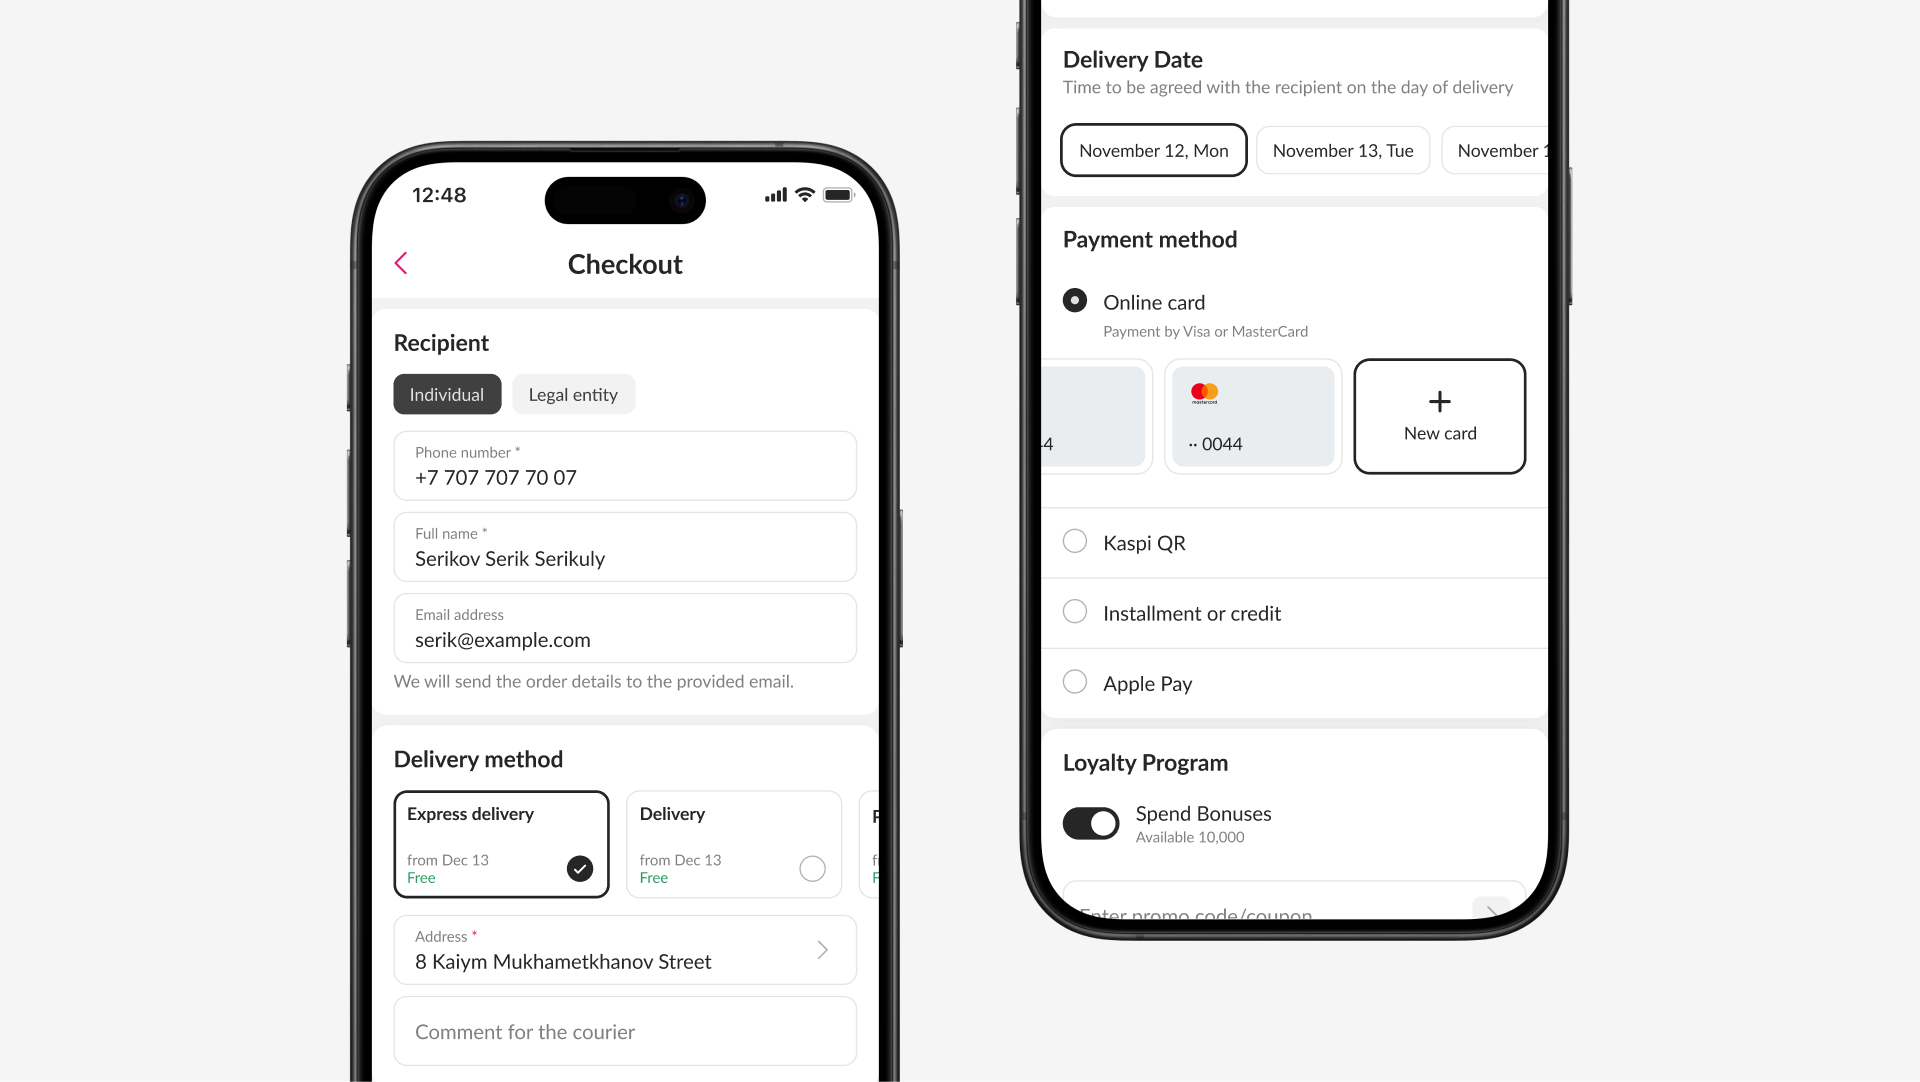
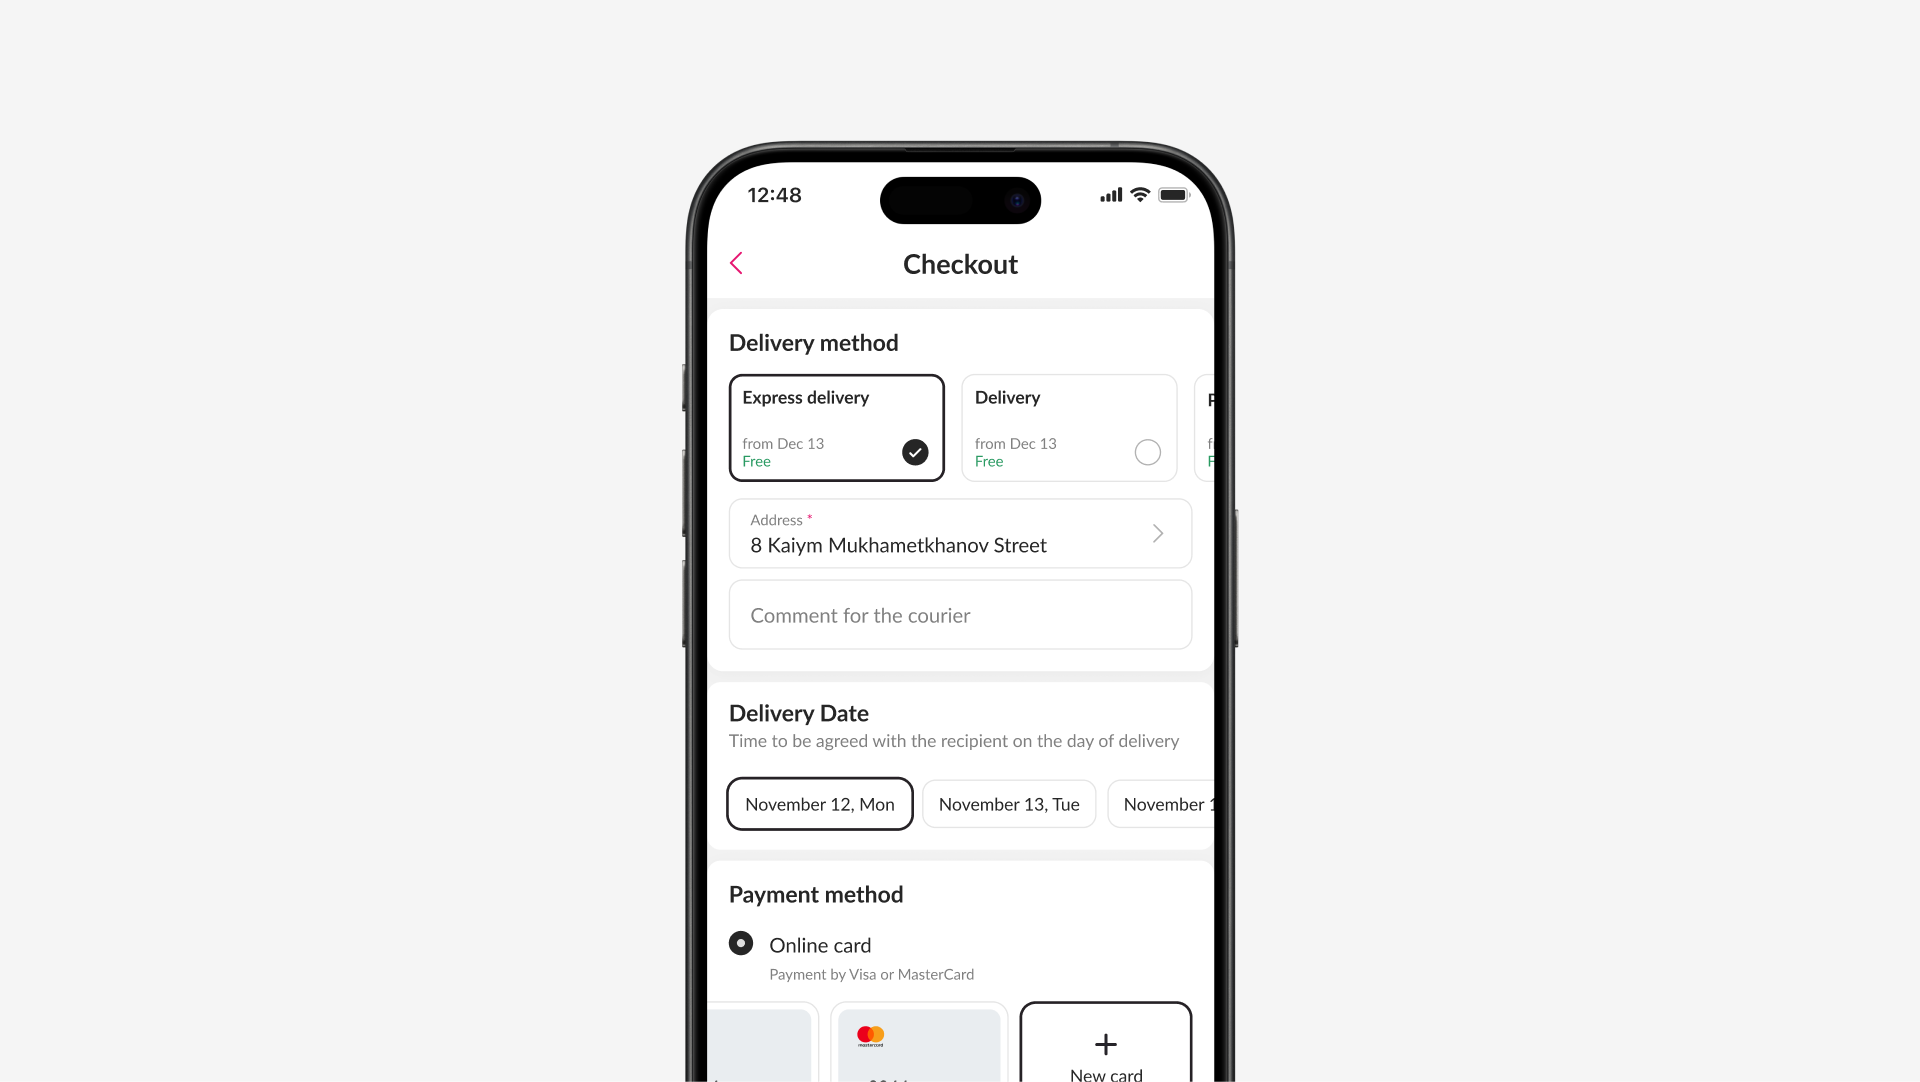
Update portfolio case studies and styling

Changed region(s): [[0.1562, 0.0, 0.8438, 1.0], [0.5625, 0.976, 0.5938, 1.0], [0.5312, 0.915, 0.5625, 0.9455]]

diff --git a/src/content/cases.js b/src/content/cases.js
@@ -4,7 +4,6 @@ import ecommerceCartCover from "../assets/projects/ecommerce-cart-cover.png";
 import ecommerceProductPageCover from "../assets/projects/ecommerce-product-page-cover.png";
 import ecommerceOrdersCover from "../assets/projects/ecommerce-orders-cover.png";
 import ecommerceOrderDetailsCover from "../assets/projects/ecommerce-order-details-cover.png";
-import ecommerceWarrantyServicesCover from "../assets/projects/ecommerce-warranty-services-cover.png";
 import partnersCover from "../assets/projects/partners-cover.png";
 import partnersDrawer from "../assets/projects/partners-drawer.png";
 import productPageBeforeMockup from "../assets/Страница товара до мокап.png";
@@ -21,7 +20,6 @@ export const caseOrder = [
   { slug: "/projects/ecommerce-cart", label: "Корзина" },
   { slug: "/projects/ecommerce-checkout", label: "Оформление заказа" },
   { slug: "/projects/ecommerce-my-orders", label: "Мои заказы" },
-  { slug: "/projects/ecommerce-warranty-services", label: "Гарантийные услуги" },
   { slug: "/projects/ecommerce-order-details", label: "Детали заказа" },
   { slug: "/projects/partners", label: "Mechta Partners" },
   { slug: "/projects/corporate-portal", label: "Корпоративный портал" },
@@ -37,7 +35,7 @@ export const workflowCases = {
         title: "Что это за слой",
         paragraphs: [
           "Это внутренний слой кейса, где я фиксирую не только итоговые экраны, но и саму логику работы: как собирались модули воронки, как мы договаривались с командами и почему часть решений менялась по ходу проекта.",
-          "Здесь важен не один экран, а связанный цикл работы вокруг страницы товара, корзины, оформления заказа, этапа после покупки, отслеживания заказа и гарантийных услуг.",
+          "Здесь важен не один экран, а связанный цикл работы вокруг страницы товара, корзины, оформления заказа, этапа после покупки и отслеживания заказа.",
         ],
       },
       {
@@ -116,18 +114,6 @@ export const workflowCases = {
           "собирал единый поток после покупки, а не набор разрозненных экранов",
           "искал конфликты между сценариями, статусами и данными разных команд",
           "закладывал фундамент для будущих изменений воронки через этап после покупки",
-        ],
-      },
-      {
-        title: "Гарантийные услуги",
-        paragraphs: [
-          "Гарантийные услуги были встроенным мини-продуктом внутри интернет-магазина. Здесь нужно было не просто показать тарифы, а связать их с товарами, сопутствующими сценариями и логикой апселла.",
-        ],
-        list: [
-          "пересобрал формат показа гарантий и карточек тарифов",
-          "продумал сопутствующие товары для услуг",
-          "упростил структуру описания, чтобы снизить хардкод",
-          "разобрал кейсы с несколькими одинаковыми товарами и пакетным добавлением",
         ],
       },
       {
@@ -288,28 +274,6 @@ export const workflowCases = {
           "проверял, как пользователь двигается между списком и деталями",
         ],
         media: "Модуль: мои заказы",
-      },
-    ],
-  },
-  ecommerceWarrantyServices: {
-    slug: "/projects/ecommerce-warranty-services",
-    title: "Гарантийные услуги",
-    heroImage: ecommerceWarrantyServicesCover,
-    moduleCase: true,
-    summary: [
-      "Гарантийные услуги были встроенным мини-проектом внутри интернет-магазина и отдельным слоем апселла.",
-    ],
-    metrics: ["Апселл услуг +NDA%"],
-    results: [moduleMetricsPlaceholder],
-    sections: [
-      {
-        title: "Детали",
-        list: [
-          "переосмыслил формат показа гарантий и карточек тарифов",
-          "проработал сопутствующие товары для услуг",
-          "упростил структуру описания, чтобы уменьшить хардкод",
-          "разобрал нестандартные сценарии, включая услуги на несколько одинаковых товаров",
-        ],
       },
     ],
   },
@@ -733,21 +697,6 @@ export const mechtaProjects = [
     preview: false,
   },
   {
-    slug: "/projects/ecommerce-warranty-services",
-    title: "Гарантийные услуги",
-    kind: "E-commerce модуль",
-    period: "2025 — X",
-    summary: [
-      "Гарантийные услуги были встроенным мини-проектом внутри интернет-магазина и отдельным слоем апселла.",
-    ],
-    highlights: [moduleMetricsPlaceholder],
-    metrics: ["Апселл услуг +NDA%"],
-    cover: ecommerceWarrantyServicesCover,
-    moduleCase: true,
-    showSummary: true,
-    preview: false,
-  },
-  {
     slug: "/projects/ecommerce-order-details",
     title: "Детали заказа",
     kind: "E-commerce модуль",
@@ -878,7 +827,6 @@ export const backlogSections = [
       "оформление заказа",
       "этап после покупки",
       "мои заказы",
-      "гарантийные услуги как встроенный мини-проект",
       "скриншоты и дополнительные материалы будут добавлены позже",
     ],
   },
@@ -998,16 +946,6 @@ export const publicCases = {
           "проверял, как пользователь двигается между списком и деталями",
         ],
         media: "Модуль: мои заказы",
-      },
-      {
-        title: "Гарантийные услуги",
-        paragraphs: ["Гарантийные услуги были встроенным мини-проектом внутри интернет-магазина и отдельным слоем апселла."],
-        list: [
-          "переосмыслил формат показа гарантий и карточек тарифов",
-          "проработал сопутствующие товары для услуг",
-          "упростил структуру описания, чтобы уменьшить хардкод",
-          "разобрал нестандартные сценарии, включая услуги на несколько одинаковых товаров",
-        ],
       },
       {
         title: "Итог",

diff --git a/src/content/cases-en.js b/src/content/cases-en.js
@@ -4,7 +4,6 @@ import ecommerceCartCover from "../assets/projects/ecommerce-cart-cover.png";
 import ecommerceProductPageCover from "../assets/projects/ecommerce-product-page-cover.png";
 import ecommerceOrdersCover from "../assets/projects/ecommerce-orders-cover.png";
 import ecommerceOrderDetailsCover from "../assets/projects/ecommerce-order-details-cover.png";
-import ecommerceWarrantyServicesCover from "../assets/projects/ecommerce-warranty-services-cover.png";
 import partnersCover from "../assets/projects/partners-cover.png";
 import partnersDrawer from "../assets/projects/partners-drawer.png";
 import productPageBeforeMockup from "../assets/Страница товара до мокап.png";
@@ -22,7 +21,6 @@ export const caseOrder = [
   { slug: "/projects/ecommerce-cart", label: "Cart" },
   { slug: "/projects/ecommerce-checkout", label: "Checkout" },
   { slug: "/projects/ecommerce-my-orders", label: "My orders" },
-  { slug: "/projects/ecommerce-warranty-services", label: "Warranty services" },
   { slug: "/projects/ecommerce-order-details", label: "Order details" },
   { slug: "/projects/partners", label: "Mechta Partners" },
   { slug: "/projects/corporate-portal", label: "Corporate portal" },
@@ -94,21 +92,6 @@ export const mechtaProjects = [
     highlights: [moduleMetricsPlaceholder],
     metrics: ["Order-status tickets -NDA%"],
     cover: ecommerceOrdersCover,
-    moduleCase: true,
-    showSummary: true,
-    preview: false,
-  },
-  {
-    slug: "/projects/ecommerce-warranty-services",
-    title: "Warranty services",
-    kind: "E-commerce module",
-    period: "2025 — X",
-    summary: [
-      "Packaged warranty services as a clear upsell mini-product inside the store.",
-    ],
-    highlights: [moduleMetricsPlaceholder],
-    metrics: ["Service attach rate +NDA%"],
-    cover: ecommerceWarrantyServicesCover,
     moduleCase: true,
     showSummary: true,
     preview: false,
@@ -348,16 +331,6 @@ export const publicCases = {
         media: "Module: my orders",
       },
       {
-        title: "Warranty services",
-        paragraphs: ["Warranty services worked as a built-in mini-product inside the store and as a separate upsell layer."],
-        list: [
-          "rethought the way warranties and plan cards are presented",
-          "designed relevant cross-sells around the service",
-          "simplified the content structure to reduce hardcoded layout logic",
-          "worked through edge cases, including services attached to several identical items",
-        ],
-      },
-      {
         title: "Summary",
         paragraphs: [
           "For me this was not a one-off redesign but a long-term improvement of a product flow. The outcome was not only better-looking screens, but a more connected funnel with clearer behavior and better scalability.",
@@ -482,28 +455,6 @@ export const publicCases = {
           "checked how users move between the list and the details page",
         ],
         media: "Module: my orders",
-      },
-    ],
-  },
-  ecommerceWarrantyServices: {
-    slug: "/projects/ecommerce-warranty-services",
-    title: "Warranty services",
-    heroImage: ecommerceWarrantyServicesCover,
-    moduleCase: true,
-    summary: [
-      "Warranty services worked as a built-in mini-product inside the store and as a separate upsell layer.",
-    ],
-    metrics: ["Service attach rate +NDA%"],
-    results: [moduleMetricsPlaceholder],
-    sections: [
-      {
-        title: "Details",
-        list: [
-          "rethought the way warranties and plan cards are presented",
-          "designed relevant cross-sells around the service",
-          "simplified the content structure to reduce hardcoded layout logic",
-          "worked through edge cases, including services attached to several identical items",
-        ],
       },
     ],
   },

diff --git a/src/styles.css b/src/styles.css
@@ -168,21 +168,21 @@ body {
 
 
 
-  h2,
-  h3,
-  h4,
-  h5,
-  h6,
-  p,
-  a,
-  button,
-  input,
-  textarea,
-  select,
-  label,
-  li,
-  span,
-  div) {
+h2,
+h3,
+h4,
+h5,
+h6,
+p,
+a,
+button,
+input,
+textarea,
+select,
+label,
+li,
+span,
+div) {
   font-family: var(--font-family-mono) !important;
   font-weight: 400 !important;
   font-size: var(--mi-font-size-code-body) !important;
@@ -190,21 +190,21 @@ body {
   letter-spacing: var(--font-letter-spacing-mono) !important;
 }
 
-  h2,
-  h3,
-  h4,
-  h5,
-  h6,
-  p,
-  a,
-  button,
-  input,
-  textarea,
-  select,
-  label,
-  li,
-  span,
-  div) {
+h2,
+h3,
+h4,
+h5,
+h6,
+p,
+a,
+button,
+input,
+textarea,
+select,
+label,
+li,
+span,
+div) {
   font-family: "Inter", sans-serif !important;
 }
 
@@ -222,46 +222,46 @@ body {
 
 
 
-  .home-page .company-divider,
-  .home-page .project-card,
-  .home-page .about-block .section-title,
-  .home-page .about-block .prose > p,
-  .home-page .special-projects,
-  .page .display-title,
-  .page .cv-subtitle,
-  .page .section-title,
-  .page .fact-row,
-  .page .prose > p,
-  .page .prose > ul,
-  .page .prose > ol,
-  .page .section-inline-title,
-  .page .section-inline-label,
-  .page .case-subsection__title,
-  .page .line-list > li,
-  .page .project-nav,
-  .page .cv-entry__meta) {
+.home-page .company-divider,
+.home-page .project-card,
+.home-page .about-block .section-title,
+.home-page .about-block .prose>p,
+.home-page .special-projects,
+.page .display-title,
+.page .cv-subtitle,
+.page .section-title,
+.page .fact-row,
+.page .prose>p,
+.page .prose>ul,
+.page .prose>ol,
+.page .section-inline-title,
+.page .section-inline-label,
+.page .case-subsection__title,
+.page .line-list>li,
+.page .project-nav,
+.page .cv-entry__meta) {
   position: relative;
   counter-increment: ide-line;
 }
 
-  .home-page .company-divider,
-  .home-page .project-card,
-  .home-page .about-block .section-title,
-  .home-page .about-block .prose > p,
-  .home-page .special-projects,
-  .page .display-title,
-  .page .cv-subtitle,
-  .page .section-title,
-  .page .fact-row,
-  .page .prose > p,
-  .page .prose > ul,
-  .page .prose > ol,
-  .page .section-inline-title,
-  .page .section-inline-label,
-  .page .case-subsection__title,
-  .page .line-list > li,
-  .page .project-nav,
-  .page .cv-entry__meta)::after {
+.home-page .company-divider,
+.home-page .project-card,
+.home-page .about-block .section-title,
+.home-page .about-block .prose>p,
+.home-page .special-projects,
+.page .display-title,
+.page .cv-subtitle,
+.page .section-title,
+.page .fact-row,
+.page .prose>p,
+.page .prose>ul,
+.page .prose>ol,
+.page .section-inline-title,
+.page .section-inline-label,
+.page .case-subsection__title,
+.page .line-list>li,
+.page .project-nav,
+.page .cv-entry__meta)::after {
   content: counter(ide-line);
   position: absolute;
   top: 0;
